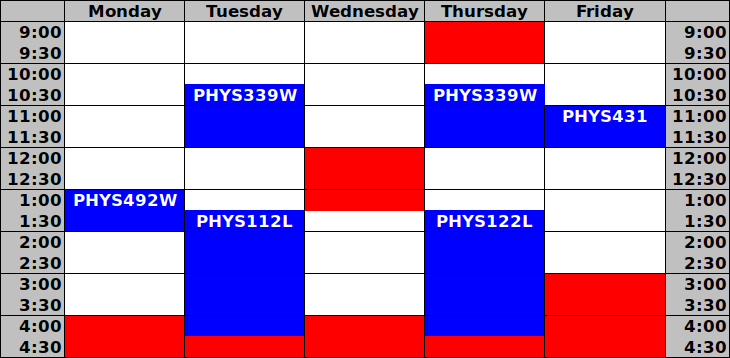
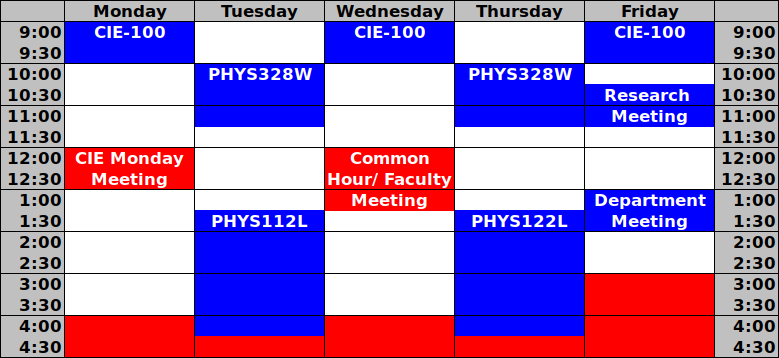
Fall 2021 schedule

Changed region(s): [[0.0, 0.0, 1.0, 1.0]]

diff --git a/schedule.md b/schedule.md
@@ -1,10 +1,10 @@
-## Summer 2021 Schedule
+## Fall 2021 Schedule
 
-My summer schedule is flexible. [Please get in touch](mailto:lriley@ursinus.edu) if you'd like to meet.
+<!-- My summer schedule is flexible. [Please get in touch](mailto:lriley@ursinus.edu) if you'd like to meet. -->
 
-<!-- ![Schedule](/assets/img/schedule.png) 
+![Schedule](/assets/img/schedule.png) 
 
-Virtual office hours are shown in yellow. During these times, I will
-be "on call" in Teams to meet or interact in the chat. I can also make
-appointments in the white blocks. I am unavailable at times shown in
-red and blue. -->
+<!-- Virtual office hours are shown in yellow. During these times, I will
+be "on call" in Teams to meet or interact in the chat. -->
+
+I will be scheduling office hours soon. I can also make appointments in the white blocks. I am unavailable at times shown in red and blue.
